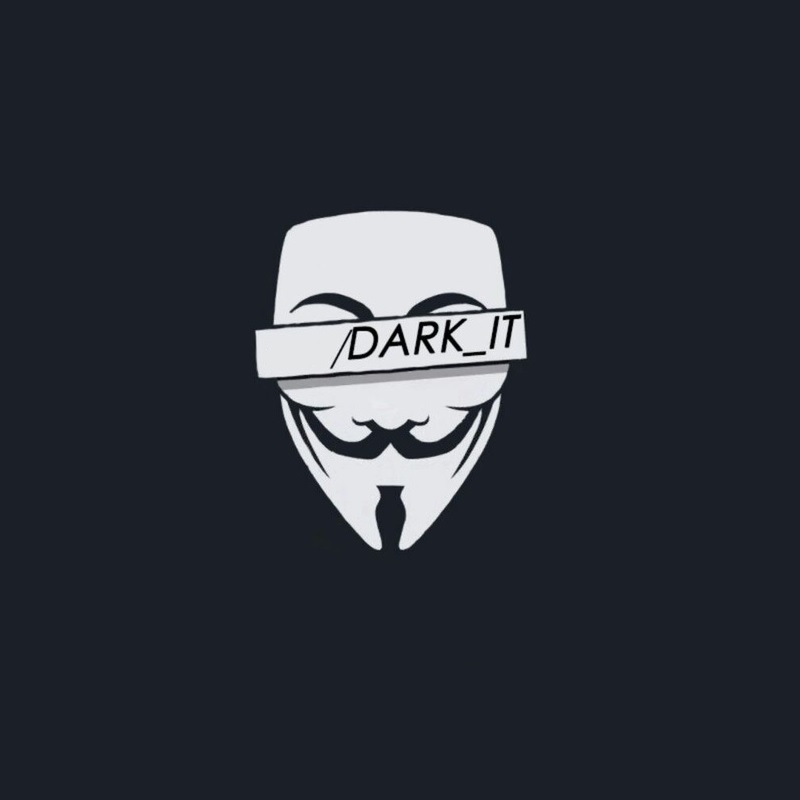
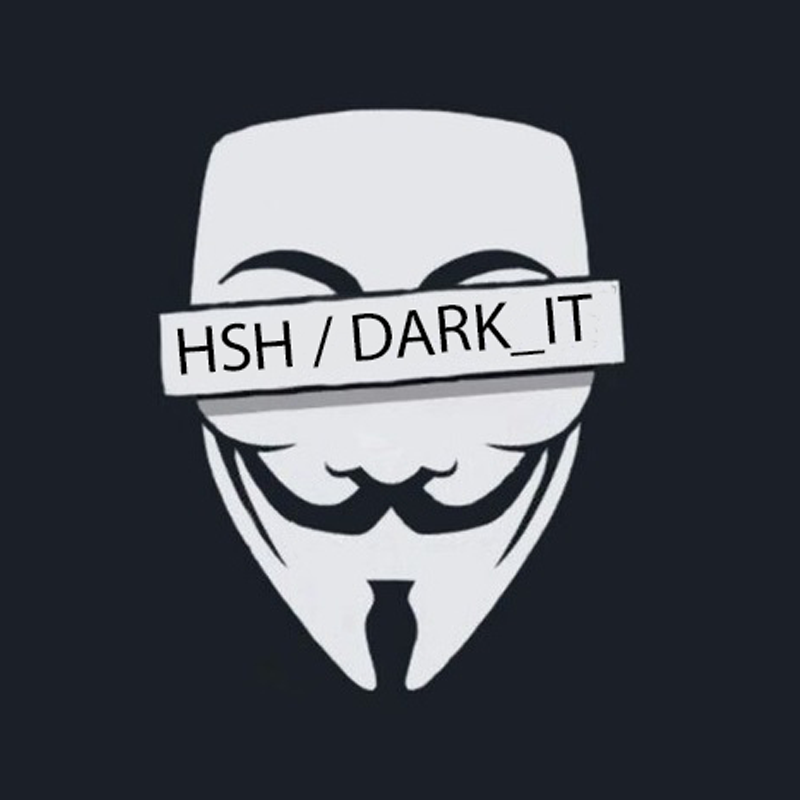
-outsourced ugly code to static method -changed some images

Changed region(s): [[0.1875, 0.125, 0.7812, 0.875]]

diff --git a/src/de/hsh/daniel/controller/RamGame_controller.java b/src/de/hsh/daniel/controller/RamGame_controller.java
@@ -21,6 +21,7 @@ public class RamGame_controller extends Observable implements Initializable {
     public static final String fxml = "view/RAMGame.fxml";
     private Game game = new Game();
     private boolean initialized = false;
+
     @FXML
     private Canvas gameCanvas;
 
@@ -36,50 +37,49 @@ public class RamGame_controller extends Observable implements Initializable {
         Logger.log(this.getClass() + ": initialized");
         gameCanvas.setFocusTraversable(true);
 
-        GraphicsContext gc          = gameCanvas.getGraphicsContext2D();
-        Board           board       = BoardFactory.initBoard(BoardFactory.getBoardPairs());
-        Image           cardBack    = new Image("de/hsh/daniel/resources/0.png");
+        GraphicsContext gc = gameCanvas.getGraphicsContext2D();
+        Board board = BoardFactory.initBoard(BoardFactory.getBoardPairs());
+        Image cardBack = new Image("de/hsh/daniel/resources/0.png");
 
-        double          gridW       = (double)(board.getNumberOfPairs() / 2);
-        double          gridH       = 4;
-        int             imgCount    = 0;
-        int             backCount   = 0;
-        int             xStart      = 10;
-        int             yStart      = 10;
-        double          imgSize        = (double)(WindowConfig.window_height / 4) - 20;
-        double          offset      = (WindowConfig.window_width / gridW);
-        double          spacing     = (offset - imgSize);
+        double gridW = (double) (board.getNumberOfPairs() / 2);
+        double gridH = 4;
+        int backCount = 0;
+        double imgSize = (double) (WindowConfig.window_height / 4) - 20;
 
 
         //TODO: Implement set cardback transparent/invisible on click
 
-            /*
-            Draws card images
-         */
-        for (int j = 0; j < gridH; j++) {
-            for (int k = 0; k < gridW; k++, xStart += (imgSize + spacing), imgCount++) {
-                gc.drawImage(board.getCardList().get(imgCount).getImage(), xStart, yStart, imgSize, imgSize);
-            }
-            yStart += imgSize + 20;
-            xStart = 10;
+
+        //Draws card images
+        if (board.getNumberOfPairs() == 6) {
+            Grid.drawGrid(gc, board, gridW, gridH, imgSize, board.getNumberOfPairs());
+        } else if (board.getNumberOfPairs() == 8) {
+            Grid.drawGrid(gc, board, gridW, gridH, imgSize, board.getNumberOfPairs());
+
+        } else if (board.getNumberOfPairs() == 10) {
+            Grid.drawGrid(gc, board, gridW, gridH, imgSize, board.getNumberOfPairs());
         }
-
-
-        /*
-            Draws card backside over card image
-         */
-        for (int j = 0; j < gridH; j++) {
-            for (int k = 0; k < gridW; k++, xStart += (imgSize + spacing), backCount++) {
-                gc.drawImage(cardBack, xStart, yStart, imgSize, imgSize);
-            }
-            yStart += imgSize + 20;
-            xStart = 10;
-        }
-
-
 
 
         initialized = true;
+
+
+/*
+
+            //Draws card backside over card image
+
+
+            for (int j = 0; j < gridH; j++) {
+                for (int k = 0; k < gridW; k++, xStart += (imgSize + spacing), backCount++) {
+                     gc.drawImage(cardBack, xStart, yStart, imgSize, imgSize);
+                }
+                yStart += imgSize + 20;
+                xStart = 10;
+        }
+*/
+
+
     }
 }
+
 

diff --git a/src/de/hsh/daniel/model/Grid.java b/src/de/hsh/daniel/model/Grid.java
@@ -1,37 +1,51 @@
 package de.hsh.daniel.model;
 
-import common.util.Logger;
 
-import java.util.ArrayList;
+import javafx.scene.canvas.GraphicsContext;
 
 public class Grid {
 
-    private static final int[]                   gridSize        = new int[2];
-    private static final ArrayList<Integer>      gridValuesX     = new ArrayList<>();
-    private static final ArrayList<Integer>      gridValuesY     = new ArrayList<>();
+    public static void drawGrid(GraphicsContext gc, Board board, double gridW, double gridH, double imgSize, int numberOfPairs) {
+        int xStart;
+        int yStart = 10;
+        int spacing ;
+        int imgCount = 0;
 
 
-    public static int[] setupGridSize( int numberOfPairs) {
-        int cards = numberOfPairs*2;
+        if (numberOfPairs == 6) {
+            xStart = 300;
+            spacing = 40;
+            for (int j = 0; j < gridH; j++) {
+                for (int k = 0; k < gridW; k++, xStart += (imgSize + spacing), imgCount++) {
+                    gc.drawImage(board.getCardList().get(imgCount).getImage(), xStart, yStart, imgSize, imgSize);
+                }
+                yStart += imgSize + 20;
+                xStart = 300;
+            }
 
-        return gridSize;
-    }
+        } else if( numberOfPairs == 8) {
+            xStart = 200;
+            spacing = 40;
+            for (int j = 0; j < gridH; j++) {
+                for (int k = 0; k < gridW; k++, xStart += (imgSize + spacing), imgCount++) {
+                    gc.drawImage(board.getCardList().get(imgCount).getImage(), xStart, yStart, imgSize, imgSize);
+                }
+                yStart += imgSize + 20;
+                xStart = 200;
 
-    public static ArrayList<Integer> getGridValuesX() {
-        int x = 10;
-        for (int i = 0; i < gridSize[0] ; i++, x+=10) {
-            gridValuesX.add(x);
+            }
+            } else {
+            xStart = 30;
+            spacing = 40;
+            for (int j = 0; j < gridH; j++) {
+                for (int k = 0; k < gridW; k++, xStart += (imgSize + spacing), imgCount++) {
+                    gc.drawImage(board.getCardList().get(imgCount).getImage(), xStart, yStart, imgSize, imgSize);
+                }
+                yStart += imgSize + 20;
+                xStart = 30;
+            }
+
         }
-        return gridValuesX;
     }
-
-    public static ArrayList<Integer> getGridValuesY () {
-        int y = 20;
-        for(int i = 0; i < gridSize[1]; i++, y+=20) {
-            gridValuesY.add(y);
-        }
-        return gridValuesY;
-    }
-
 
 }

diff --git a/src/de/hsh/daniel/model/Board.java b/src/de/hsh/daniel/model/Board.java
@@ -1,8 +1,12 @@
 package de.hsh.daniel.model;
 
 
+import common.actor.BackgroundImage;
+import common.actor.Drawable;
+import common.config.WindowConfig;
 import common.util.Logger;
 
+import javafx.scene.canvas.GraphicsContext;
 import javafx.scene.image.Image;
 import javafx.scene.image.ImageView;
 
@@ -16,18 +20,21 @@ import java.util.List;
  * Class represents Gameboard where Cards are laid out
  */
 
-public class Board {
+public class Board  {
 
     private ArrayList<Card> cardList = new ArrayList<>();
     private ArrayList<Image> imgList = new ArrayList<>();
     private ImageView       cardView = new ImageView();
     private static final String imgLocation = "de/hsh/daniel/resources/";
-    //TODO: Get number of pairs from MenuButton
     private int numberOfPairs = 0;
 
 
     public void turnCard(int id) {
-       cardView.setImage(getCardList().get(id).getImage());
+       if(id == (-1)){
+           cardView.setImage(cardList.get(1).getCardBack());
+       } else {
+        cardView.setImage(getCardList().get(id).getImage());
+        }
     }
 
     public ArrayList<Image> imgToList() {

diff --git a/src/de/hsh/daniel/model/Game.java b/src/de/hsh/daniel/model/Game.java
@@ -15,15 +15,17 @@ import javafx.scene.input.MouseEvent;
  */
 public class Game {
 
-    private GraphicsContext gc;
+
     @FXML
-    private Canvas gameCanvas;
+    private Canvas          gameCanvas;
+
 
 
     public void render(Canvas gameCanvas, int fps) {
+
     }
-
-    //TODO: GET NUMBER OF PAIRS FROM BUTTON AND PARSE TO METHOD
-
 }
+
+
+
 

diff --git a/src/de/hsh/daniel/model/Card.java b/src/de/hsh/daniel/model/Card.java
@@ -3,6 +3,7 @@ package de.hsh.daniel.model;
 
 import common.actor.Drawable;
 import javafx.scene.image.Image;
+import javafx.scene.image.ImageView;
 
 
 public class Card  {
@@ -18,6 +19,7 @@ public class Card  {
      Card(Image img, int id) {
         setImage(img);
         setId(id);
+
     }
 
 
